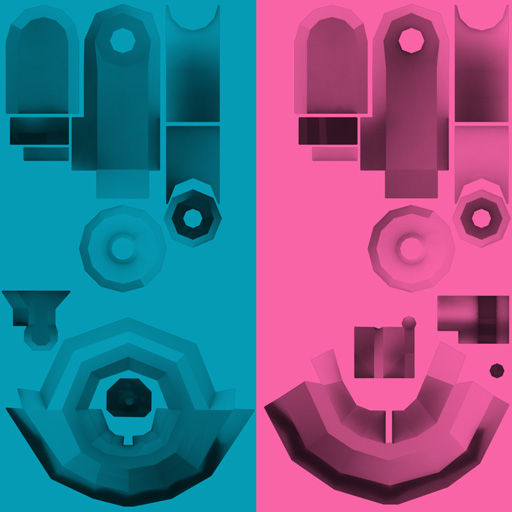
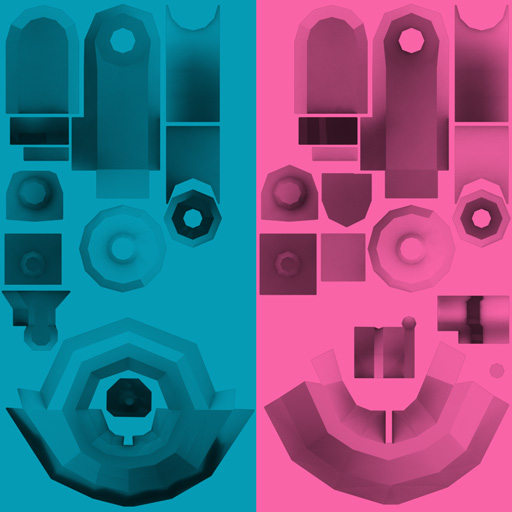
add axe plus

diff --git a/demos/demo_2.js b/demos/demo_2.js
@@ -103,12 +103,14 @@ function initObject(){
     geos['j0'] = pool.geo('basic_op_joint');
     geos['j1'] = pool.geo('basic_op_joint_1');
     geos['c1'] = pool.getMesh('basic_op_center_high').geometry;
-    geos['c2'] = pool.getMesh('basic_op_center_low').geometry;
+    //geos['c2'] = pool.getMesh('basic_op_center_low').geometry;
 
     //----- serpent
 
     //geos['c1'] = pool.getMesh('serpent_center_high').geometry;
-    //geos['c2'] = pool.getMesh('serpent_center_low').geometry;
+    geos['c2'] = pool.getMesh('serpent_center_low_mid').geometry;
+    geos['c2a'] = pool.getMesh('serpent_center_low_axe').geometry;
+
     geos['h1'] = pool.getMesh('serpent_high_norm').geometry;
     geos['h2'] = pool.getMesh('serpent_low_norm').geometry;
     geos['end'] = pool.getMesh('serpent_end').geometry;
@@ -161,6 +163,7 @@ var formula = function(pz, r, link, label, num){
     this.head = null;
     this.morphs = [];
     this.formuleMesh = [];
+    this.lowAxe = null;
 
     
 
@@ -227,6 +230,10 @@ formula.prototype = {
         this.snakeLink[2].position.set(this.f.points.y4.x*this.mul, this.f.points.y4.y*this.mul,0);
         this.snakeLink[2].quaternion.copy(this.f.endQuaternion);
         this.snakeLink[2].rotation.z += this.f.points.y4.r;
+
+
+        // a trouver ??
+        //this.lowAxe.rotation.y = (15*V3D.ToRad);
         //
 
         for(var i = 0; i<this.nLength; i++){
@@ -324,10 +331,15 @@ formula.prototype = {
             t = 1;
             m1 = new THREE.Mesh(geos['c1'], centerShader);
             m2 = new THREE.Mesh(geos['h1'], centerMorphShader);
+            m1.add(m2);
         } else if(type=='low_norm'){
             t = 2;
             m1 = new THREE.Mesh(geos['c2'], centerShader);
+            m4 = new THREE.Mesh(geos['c2a'], centerShader);
             m2 = new THREE.Mesh(geos['h2'], centerMorphShader);
+            m1.add(m4);
+            this.lowAxe = m4;
+            m4.add(m2);
         }
         n = n || 0;
         if(n==1 && t==1){
@@ -341,7 +353,7 @@ formula.prototype = {
             m.add(m3);
         }
         m.add(m1);
-        m1.add(m2);
+        
         this.morphs.push(m2);
         this.mesh.add(m);
         m1.rotation.y = Math.PI;
